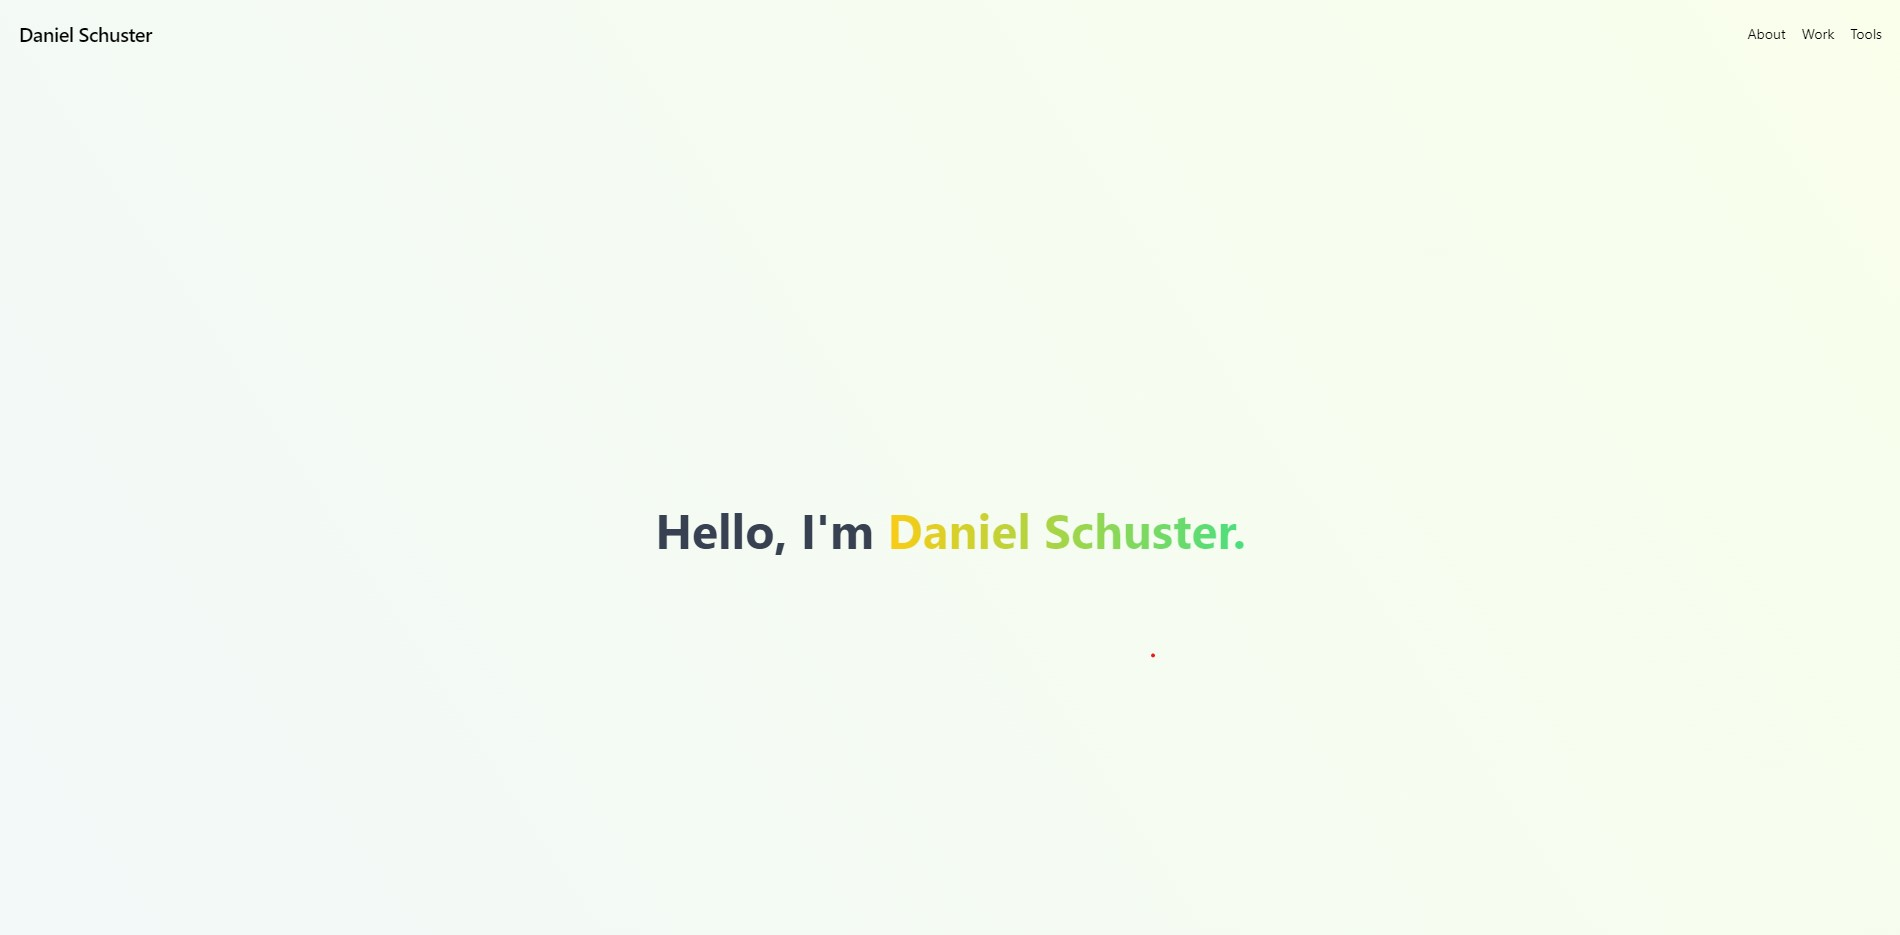
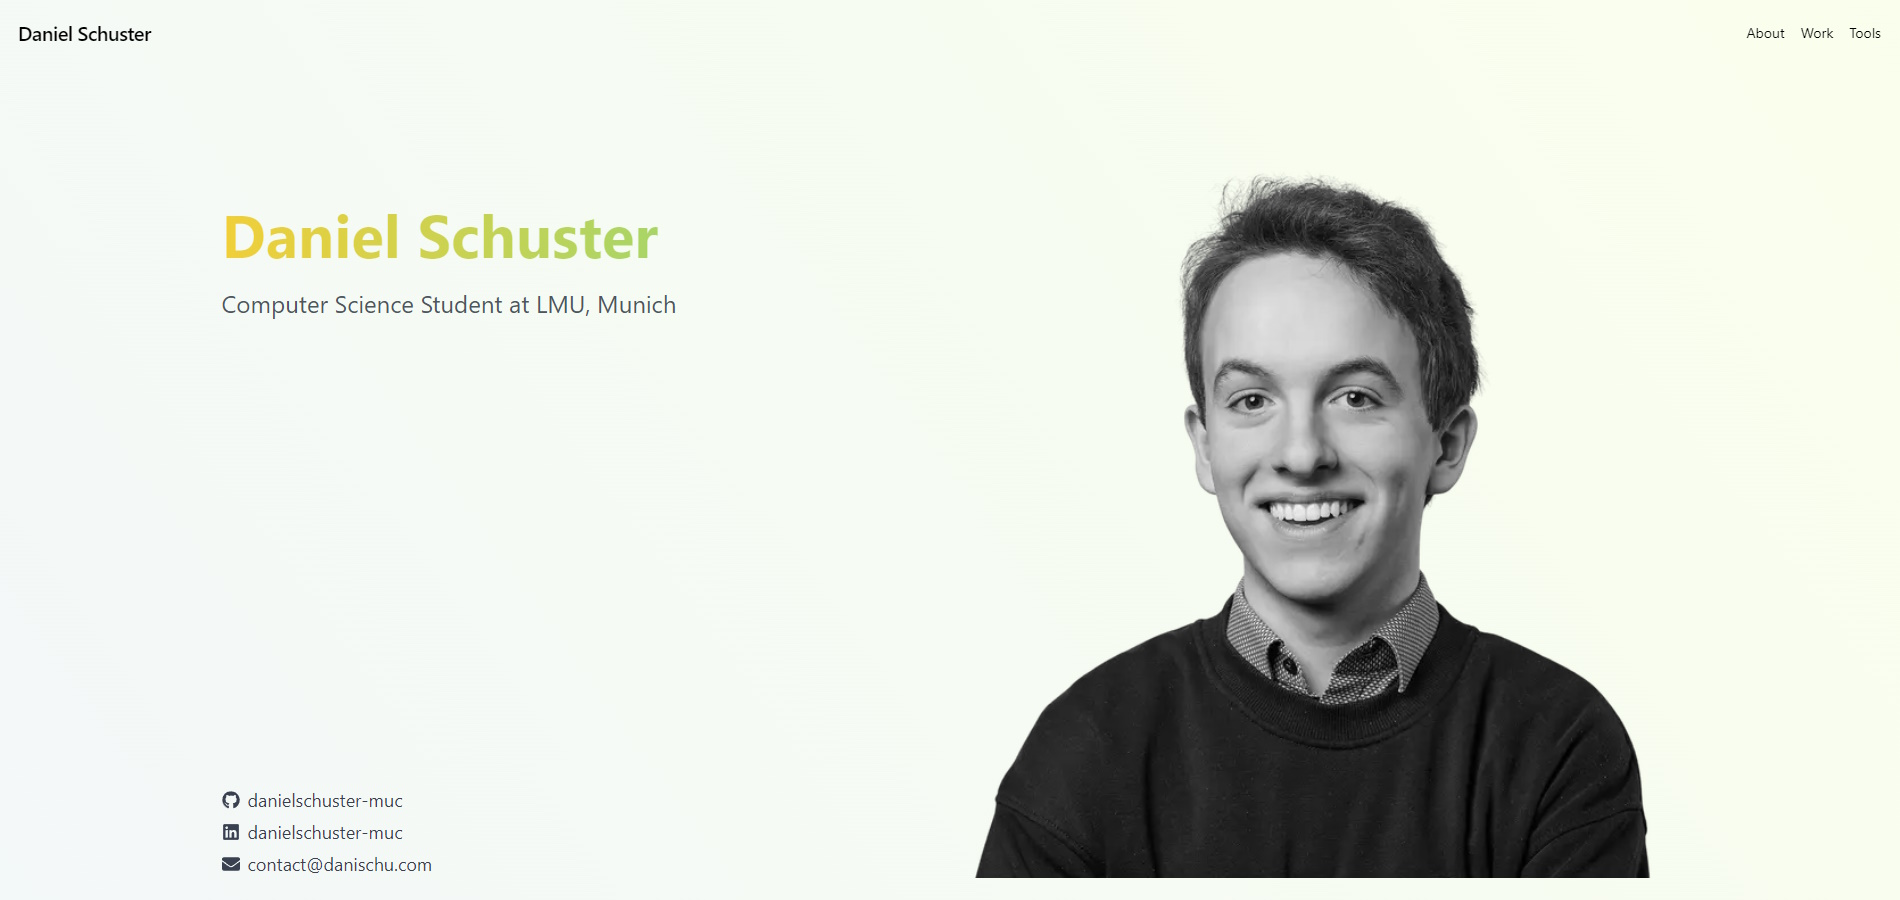
Add new projects, rename to projects, improve images and texts

diff --git a/components/SingleProject.tsx b/components/SingleProject.tsx
@@ -2,7 +2,7 @@ import { ProjectType } from "@/additional";
 import Image from "next/image";
 import Link from "next/link";
 import React, { useState } from "react";
-import { HiArrowRight } from "react-icons/hi";
+import { FaArrowRight, FaGithub } from "react-icons/fa";
 import ColoredBadge from "./ColoredBadge";
 import Modal from "./Modal";
 
@@ -22,7 +22,7 @@ export default function SingleProject({ project }: { project: ProjectType }) {
       )}
       <div className="flex flex-col rounded-lg border border-gray-200 bg-white shadow dark:border-gray-700 dark:bg-gray-800">
         <Image
-          className="rounded-t-lg grayscale hover:grayscale-0"
+          className="rounded-t-lg grayscale transition-all hover:grayscale-0"
           src={project.image}
           alt={`Image of ${project.title}`}
           width="800"
@@ -39,44 +39,40 @@ export default function SingleProject({ project }: { project: ProjectType }) {
               onClick={() => setShowModal(true)}
               className="my-2 mr-auto inline-flex items-center rounded-lg border border-gray-300 bg-white px-5 py-2.5 text-sm font-medium text-gray-900 transition-all hover:bg-gray-100 dark:border-gray-600 dark:bg-gray-800 dark:text-white dark:hover:border-gray-600 dark:hover:bg-gray-700">
               Read more
-              <HiArrowRight className="ml-2" />
+              <FaArrowRight className="ml-2" />
             </button>
-            <Link
-              href={project.source}
-              rel="noopener noreferrer"
-              className="p-2 text-gray-700 hover:text-gray-900 dark:text-white dark:hover:text-gray-300"
-              title="Source">
-              <span className="sr-only">Source</span>
-              <svg
-                aria-hidden="true"
-                className="h-5 w-5 transition-all hover:scale-105"
-                viewBox="0 0 496 512"
-                fill="currentColor"
-                height="1em"
-                width="1em">
-                <path d="M165.9 397.4c0 2-2.3 3.6-5.2 3.6-3.3.3-5.6-1.3-5.6-3.6 0-2 2.3-3.6 5.2-3.6 3-.3 5.6 1.3 5.6 3.6zm-31.1-4.5c-.7 2 1.3 4.3 4.3 4.9 2.6 1 5.6 0 6.2-2s-1.3-4.3-4.3-5.2c-2.6-.7-5.5.3-6.2 2.3zm44.2-1.7c-2.9.7-4.9 2.6-4.6 4.9.3 2 2.9 3.3 5.9 2.6 2.9-.7 4.9-2.6 4.6-4.6-.3-1.9-3-3.2-5.9-2.9zM244.8 8C106.1 8 0 113.3 0 252c0 110.9 69.8 205.8 169.5 239.2 12.8 2.3 17.3-5.6 17.3-12.1 0-6.2-.3-40.4-.3-61.4 0 0-70 15-84.7-29.8 0 0-11.4-29.1-27.8-36.6 0 0-22.9-15.7 1.6-15.4 0 0 24.9 2 38.6 25.8 21.9 38.6 58.6 27.5 72.9 20.9 2.3-16 8.8-27.1 16-33.7-55.9-6.2-112.3-14.3-112.3-110.5 0-27.5 7.6-41.3 23.6-58.9-2.6-6.5-11.1-33.3 2.6-67.9 20.9-6.5 69 27 69 27 20-5.6 41.5-8.5 62.8-8.5s42.8 2.9 62.8 8.5c0 0 48.1-33.6 69-27 13.7 34.7 5.2 61.4 2.6 67.9 16 17.7 25.8 31.5 25.8 58.9 0 96.5-58.9 104.2-114.8 110.5 9.2 7.9 17 22.9 17 46.4 0 33.7-.3 75.4-.3 83.6 0 6.5 4.6 14.4 17.3 12.1C428.2 457.8 496 362.9 496 252 496 113.3 383.5 8 244.8 8zM97.2 352.9c-1.3 1-1 3.3.7 5.2 1.6 1.6 3.9 2.3 5.2 1 1.3-1 1-3.3-.7-5.2-1.6-1.6-3.9-2.3-5.2-1zm-10.8-8.1c-.7 1.3.3 2.9 2.3 3.9 1.6 1 3.6.7 4.3-.7.7-1.3-.3-2.9-2.3-3.9-2-.6-3.6-.3-4.3.7zm32.4 35.6c-1.6 1.3-1 4.3 1.3 6.2 2.3 2.3 5.2 2.6 6.5 1 1.3-1.3.7-4.3-1.3-6.2-2.2-2.3-5.2-2.6-6.5-1zm-11.4-14.7c-1.6 1-1.6 3.6 0 5.9 1.6 2.3 4.3 3.3 5.6 2.3 1.6-1.3 1.6-3.9 0-6.2-1.4-2.3-4-3.3-5.6-2z" />
-              </svg>
-            </Link>
-            <Link
-              href={project.website}
-              rel="noopener noreferrer"
-              className="p-2 text-gray-700 hover:text-gray-900 dark:text-white dark:hover:text-gray-300"
-              title="Website">
-              <span className="sr-only">Website</span>
-              <svg
-                aria-hidden="true"
-                className="h-5 w-5 transition-all hover:scale-105"
-                fill="none"
-                stroke="currentColor"
-                viewBox="0 0 24 24"
-                xmlns="http://www.w3.org/2000/svg">
-                <path
-                  strokeLinecap="round"
-                  strokeLinejoin="round"
-                  strokeWidth="2"
-                  d="M13.828 10.172a4 4 0 00-5.656 0l-4 4a4 4 0 105.656 5.656l1.102-1.101m-.758-4.899a4 4 0 005.656 0l4-4a4 4 0 00-5.656-5.656l-1.1 1.1"></path>
-              </svg>
-            </Link>
+            {project.source && (
+              <Link
+                href={project.source}
+                rel="noopener noreferrer"
+                className="p-2 text-gray-700 hover:text-gray-900 dark:text-white dark:hover:text-gray-300"
+                title="Source">
+                <span className="sr-only">Source</span>
+                <FaGithub className="h-5 w-5 transition-all hover:scale-105" />
+              </Link>
+            )}
+            {project.website && (
+              <Link
+                href={project.website}
+                rel="noopener noreferrer"
+                className="p-2 text-gray-700 hover:text-gray-900 dark:text-white dark:hover:text-gray-300"
+                title="Website">
+                <span className="sr-only">Website</span>
+                <svg
+                  aria-hidden="true"
+                  className="h-5 w-5 transition-all hover:scale-105"
+                  fill="none"
+                  stroke="currentColor"
+                  viewBox="0 0 24 24"
+                  xmlns="http://www.w3.org/2000/svg">
+                  <path
+                    strokeLinecap="round"
+                    strokeLinejoin="round"
+                    strokeWidth="2"
+                    d="M13.828 10.172a4 4 0 00-5.656 0l-4 4a4 4 0 105.656 5.656l1.102-1.101m-.758-4.899a4 4 0 005.656 0l4-4a4 4 0 00-5.656-5.656l-1.1 1.1"></path>
+                </svg>
+              </Link>
+            )}
           </div>
         </div>
         <div className="mt-auto flex flex-wrap items-center gap-1 border-t p-5 dark:border-gray-600">

diff --git a/components/Projects.tsx b/components/Projects.tsx
@@ -1,0 +1,81 @@
+"use client";
+
+import React from "react";
+import SingleProject from "./SingleProject";
+import { ProjectType } from "@/additional";
+
+const projects: ProjectType[] = [
+  {
+    title: "Potter DB",
+    summary:
+      "A Harry Potter database for all your wizarding needs: Books, Characters, Movies, Spells and Potions.",
+    description:
+      "As a passionate Harry Potter fan, I fulfilled my dream of creating a dedicated Harry Potter API using Ruby on Rails and PostgreSQL for the backend API, complemented by a Next.js frontend. This platform serves as an extensive resource for developers and fans alike, offering detailed information on characters, movies, books, spells, and potions. Users can explore data using the DB Search function on the website or access it programmatically via its REST or GraphQL API.",
+    image: "/images/potterdb.jpg",
+    technologies: ["Next.js", "Ruby on Rails", "Tailwind CSS", "PostgreSQL"],
+    source: "https://github.com/danielschuster-muc/potter-db",
+    website: "https://potterdb.com",
+  },
+  {
+    title: "Techdalo Website",
+    summary:
+      "The official website of Techdalo, a social startup that enables Colombian students to pursue a career in tech.",
+    description:
+      "This website informs visitors about Techdalo's mission, services, and how it supports students in embarking their journey in the tech industry. Developed using React and Next.js, with a visually appealing design implemented using shadcn/ui components, and data management handled through Firebase.",
+    image: "/images/techdalo.jpg",
+    technologies: ["Next.js", "Firebase", "shadcn/ui"],
+    website: "https://techdalo.com",
+  },
+  {
+    title: "Portfolio",
+    summary: "A personal portfolio showcasing my projects and preferred technologies.",
+    description:
+      "This portfolio website is a showcase of my work, projects, and the tools and technologies I frequently use in development. Built with React and Next.js, styled with Tailwind CSS for a clean and responsive design.",
+    image: "/images/portfolio.jpg",
+    technologies: ["Next.js", "Tailwind CSS"],
+    source: "https://github.com/danielschuster-muc/portfolio",
+    website: "https://danischu.com",
+  },
+  {
+    title: "Stack Overflown",
+    summary: "Where Developers Stumble, Mistype, & Learn Spelling",
+    description:
+      "Stack Overflown is a playful twist on the familiar Stack Overflow platform. Users who misspell the URL are greeted with random jokes and puns, adding a lighthearted touch to the developer community. Built with Vue.js and styled with simple CSS.",
+    image: "/images/stackoverflown.jpg",
+    technologies: ["Vue.js", "CSS"],
+    source: "https://github.com/danielschuster-muc/stackoverflown",
+    website: "https://stackoverflown.com",
+  },
+  {
+    title: "Void Totem Mod",
+    summary: "A Minecraft mod introducing a new totem that prevents you from dying in the void.",
+    description:
+      "The Void Totem Mod is a Minecraft modification that adds a new totem to the game that prevents players from death in the void. Developed in Java, this mod reached over 30 million downloads on CurseForge for its Forge and Fabric versions.",
+    image: "/images/voidtotem.jpg",
+    technologies: ["Java"],
+    source: "https://github.com/affehund/voidtotem",
+    website: "https://curseforge.com/minecraft/mc-mods/voidtotem",
+  },
+];
+
+const Projects = () => {
+  return (
+    <section id="projects">
+      <div className="py-20 md:py-5">
+        <div className="container mx-auto px-10">
+          <div className="container p-10 text-center">
+            <h2 className="mb-2 text-4xl font-bold text-gray-700 dark:text-white">Projects.</h2>
+            <p>A selection of projects I have worked on.</p>
+          </div>
+          <div className="grid gap-4 md:grid-cols-2 lg:grid-cols-3">
+            {projects.map((project) => (
+              <SingleProject key={project.title} project={project} />
+            ))}
+          </div>
+        </div>
+      </div>
+    </section>
+  );
+};
+
+export default Projects;

diff --git a/components/ColoredBadge.tsx b/components/ColoredBadge.tsx
@@ -4,34 +4,33 @@ export default function ColoredBadge({ technology }: { technology: TechnologyTyp
   let classes: string = "px-2 py-1 text-sm font-medium rounded ";
 
   switch (technology) {
-    case "next.js":
+    case "Next.js":
       classes += "bg-amber-100 text-amber-800 dark:bg-amber-900 dark:text-amber-300";
       break;
-    case "react":
-      classes += "bg-cyan-100 text-cyan-800 dark:bg-cyan-900 dark:text-cyan-300";
-      break;
-    case "tailwindcss":
+    case "Tailwind CSS":
       classes += "bg-fuchsia-100 text-fuchsia-800 dark:bg-fuchsia-900 dark:text-fuchsia-300";
       break;
-    case "vue.js":
+    case "Vue.js":
       classes += "bg-green-100 text-green-800 dark:bg-green-900 dark:text-green-300";
       break;
-    case "ruby on rails":
+    case "Ruby on Rails":
       classes += "bg-red-100 text-red-800 dark:bg-red-900 dark:text-red-300";
       break;
-    case "css":
+    case "CSS":
       classes += "bg-violet-100 text-violet-800 dark:bg-violet-900 dark:text-violet-300";
       break;
-    // case "indigo":
-    //   classes += "bg-indigo-100 text-indigo-800 dark:bg-indigo-900 dark:text-indigo-300";
-    //   break;
-    // more colors
-    // case "emerald":
-    //   classes += "bg-emerald-100 text-emerald-800 dark:bg-emerald-900 dark:text-emerald-300";
-    //   break;
-    // case "lime":
-    //   classes += "bg-lime-100 text-lime-800 dark:bg-lime-900 dark:text-lime-300";
-    //   break;
+    case "Java":
+      classes += "bg-indigo-100 text-indigo-800 dark:bg-indigo-900 dark:text-indigo-300";
+      break;
+    case "Firebase":
+      classes += "bg-emerald-100 text-emerald-800 dark:bg-emerald-900 dark:text-emerald-300";
+      break;
+    case "PostgreSQL":
+      classes += "bg-lime-100 text-lime-800 dark:bg-lime-900 dark:text-lime-300";
+      break;
+    case "shadcn/ui":
+      classes += "bg-cyan-100 text-cyan-800 dark:bg-cyan-900 dark:text-cyan-300";
+      break;
     // case "orange":
     //   classes += "bg-orange-100 text-orange-800 dark:bg-orange-900 dark:text-orange-300";
     //   break;

diff --git a/additional.d.ts b/additional.d.ts
@@ -1,10 +1,14 @@
 export type TechnologyType =
-  | "css"
-  | "next.js"
-  | "react"
-  | "ruby on rails"
-  | "tailwindcss"
-  | "vue.js";
+  | "CSS"
+  | "Next.js"
+  | "React"
+  | "Ruby on Rails"
+  | "Tailwind CSS"
+  | "Vue.js"
+  | "Java"
+  | "Firebase"
+  | "shadcn/ui"
+  | "PostgreSQL";
 
 export type ProjectType = {
   title: string;
@@ -12,6 +16,6 @@ export type ProjectType = {
   description: string;
   image: string;
   technologies: TechnologyType[];
-  source: string;
+  source?: string;
   website: string;
 };

diff --git a/app/page.tsx b/app/page.tsx
@@ -1,12 +1,12 @@
 import Hero from "@/components/Hero";
 import Tools from "@/components/Tools";
-import Work from "@/components/Work";
+import Projects from "@/components/Projects";
 
 const Home = () => {
   return (
     <>
       <Hero />
-      <Work />
+      <Projects />
       <Tools />
     </>
   );
